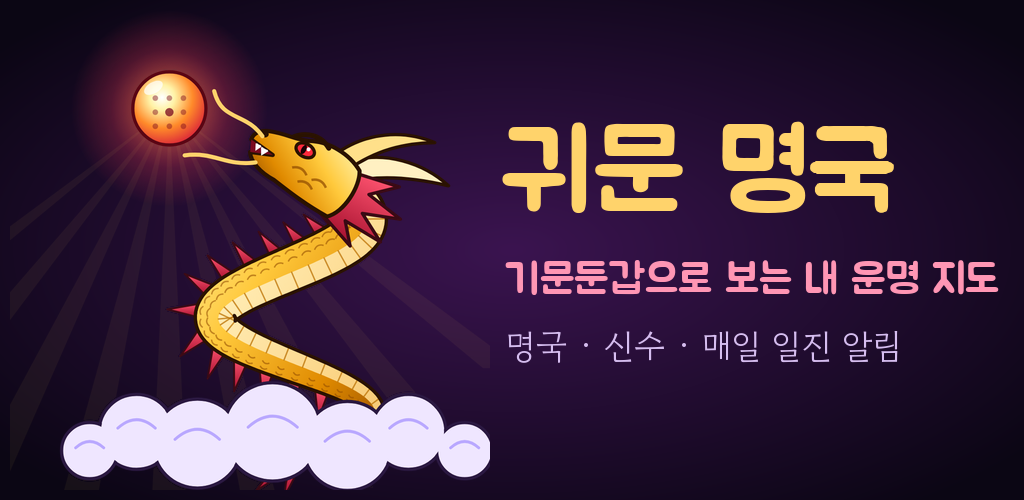
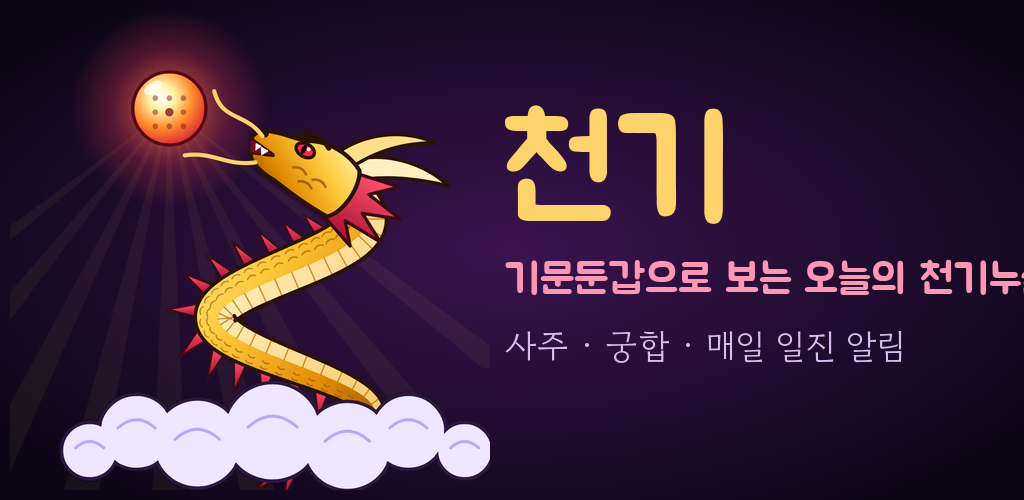
앱 이름을 '천기'로 변경 (로고, 스플래시, 스토어 자료, 쇼츠, 처리방침)
Claude-Session: https://claude.ai/code/session_0119NABojqjSjjtLjcbGgRiW

diff --git a/www/index.html b/www/index.html
@@ -6,7 +6,7 @@
 <meta name="theme-color" content="#ff8fb3">
 <link rel="preconnect" href="https://fonts.googleapis.com"><link rel="preconnect" href="https://fonts.gstatic.com" crossorigin>
 <link href="https://fonts.googleapis.com/css2?family=Jua&family=Gowun+Dodum&family=Noto+Serif+KR:wght@400;700&display=swap" rel="stylesheet">
-<title>귀문 명국</title>
+<title>천기 – 오늘의 천기누설</title>
 <style>
 :root{--bg:#fff7f1;--bg2:#fdeef4;--card:#ffffff;--ink:#3a2e4d;--mute:#9a8fae;--line:#f0e3ee;--pink:#ff8fb3;--pink2:#ffd3e2;--lav:#b9a8ff;--lav2:#ece6ff;--mint:#7fdcc0;--mint2:#dcf7ee;--sky:#8cc8ff;--sky2:#e2f1ff;--yel:#ffd66b;--yel2:#fff3cc;--red:#ff6b9a;--blue:#6a6cf6;--green:#e6f9ef;--greenS:#b7efd2;--yellow:#fff0a8;--purple:#9b7bff;--brown:#e0884f;--shadow:0 6px 18px rgba(186,140,190,.18)}
 @media(prefers-color-scheme:dark){:root{--bg:#1d1726;--bg2:#251d31;--card:#2a2236;--ink:#f3ecff;--mute:#a99cc0;--line:#3b3150;--pink:#ff8fb3;--pink2:#4a2b3c;--lav:#b9a8ff;--lav2:#352c52;--mint:#7fdcc0;--mint2:#1f3b35;--sky:#8cc8ff;--sky2:#1f3049;--yel:#ffd66b;--yel2:#40371c;--red:#ff8fb3;--blue:#a9a6ff;--green:#203a30;--greenS:#2f5c47;--yellow:#5a4d18;--purple:#c4b0ff;--brown:#f0a571;--shadow:0 6px 18px rgba(0,0,0,.35)}}
@@ -424,7 +424,7 @@ body.hasnav main{padding-bottom:86px}
 <path d="M20,4 q10,-8 20,0 M34,14 q10,-8 20,0 M48,2 q10,-8 20,0" fill="none" stroke="#8f4a00" stroke-width="3" opacity=".7"/>
 </g>
 </g>
-</svg><div><h1>귀문 <b>명국</b></h1><p class="sub">생일만 넣으면 내 운명 지도가 짠! ✨</p></div></div>
+</svg><div><h1>천<b>기</b></h1><p class="sub">생일만 넣으면 오늘의 천기누설 🐉</p></div></div>
 
 <div class="card today" id="todayTop" style="display:none"></div>
 
@@ -9145,7 +9145,7 @@ body.hasnav main{padding-bottom:86px}
 
 </script>
 <script>
-/* 귀문 명국 종합 풀이 (규칙 기반, 문장은 자체 작성)
+/* 천기 종합 풀이 (규칙 기반, 문장은 자체 작성)
  * 입력: engine.calc() 결과 r, sex('M'|'F'), age(세는나이)
  * 홍국수는 지지로 읽어요: 1子 2巳 3寅 4酉 5辰戌 6亥 7午 8卯 9申 10丑未
  */
@@ -9789,7 +9789,7 @@ function renderType(r){
   h+='<h4>일하는 스타일</h4><p>'+t.work+'</p>';
   h+='<h4>잘 맞는 사람</h4><p>'+t.match.map(c=>GM_TYPES[c]?GM_TYPES[c][0]+' '+GM_TYPES[c][1]+' '+GM_TYPES[c][2]:c).join(', ')+'과 서로 부족한 점을 채워 줘요. '+t.matchEl+'</p>';
   h+='<h4>한마디 조언</h4><p>'+t.advice+'</p>';
-  h+='<p class="note">심리 검사 결과가 아니라, '+t.whyEl+'의 분포와 십신(비겁·식상·재성·관성·인성)을 네 가지 성향으로 바꿔 풀어 본 귀문 명국만의 기질 유형이에요. 참고로 비슷한 성격 유형 코드는 '+t.code+'예요.</p>';
+  h+='<p class="note">심리 검사 결과가 아니라, '+t.whyEl+'의 분포와 십신(비겁·식상·재성·관성·인성)을 네 가지 성향으로 바꿔 풀어 본 천기만의 기질 유형이에요. 참고로 비슷한 성격 유형 코드는 '+t.code+'예요.</p>';
   $('typecard').innerHTML=h;
   const F=Saju4.fourPillars(r.pillars);
   let f='<h2>🏛 4주 풀이</h2><span class="badge">년주 · 월주 · 일주 · 시주</span>';
@@ -9875,7 +9875,7 @@ function buildNotifications(al,days){
 async function alSchedule(al){
   if(!LN){return '휴대폰에 앱으로 설치하면 이 설정대로 매일 알림이 와요. (지금 화면은 웹 미리보기라 알림이 오지 않아요.)';}
   let perm=await LN.checkPermissions();if(perm.display!=='granted')perm=await LN.requestPermissions();
-  if(perm.display!=='granted')return '알림 권한이 꺼져 있어요. 휴대폰 설정 → 앱 → 귀문 명국 → 알림을 켜 주세요.';
+  if(perm.display!=='granted')return '알림 권한이 꺼져 있어요. 휴대폰 설정 → 앱 → 천기 → 알림을 켜 주세요.';
   const pend=await LN.getPending();if(pend.notifications&&pend.notifications.length)await LN.cancel({notifications:pend.notifications.map(n=>({id:n.id}))});
   if(!al||!al.on)return '알림을 껐어요.';
   const list=buildNotifications(al,60);await LN.schedule({notifications:list});

diff --git a/assets/build_icons.py b/assets/build_icons.py
@@ -31,8 +31,8 @@ full = os.path.join(TMP, 'fg.png'); render(dragon.build(False, 1.0), full, 1024,
 fg = Image.open(full).convert('RGBA')
 for name in ['splash.png', 'splash-dark.png']:
     sp = darkbg(2732, 2732); sp.alpha_composite(fg.resize((1150, 1150), Image.LANCZOS), ((2732 - 1150) // 2, (2732 - 1150) // 2 - 180))
-    d = ImageDraw.Draw(sp); d.text((1366, 1886), '귀문 명국', font=J(170), fill=(255, 211, 107), anchor='mm')
-    d.text((1366, 2046), '기문둔갑으로 보는 내 운명 지도', font=J(70), fill=(214, 190, 240), anchor='mm')
+    d = ImageDraw.Draw(sp); d.text((1366, 1886), '천기', font=J(230), fill=(255, 211, 107), anchor='mm')
+    d.text((1366, 2066), '오늘의 천기누설', font=J(70), fill=(214, 190, 240), anchor='mm')
     sp.convert('RGB').save(os.path.join(HERE, name), optimize=True)
 ic = Image.open(os.path.join(HERE, 'icon-only.png')).convert('RGB'); ic.save(os.path.join(HERE, 'icon-only.png'), optimize=True)
 Image.open(os.path.join(HERE, 'icon-background.png')).convert('RGB').save(os.path.join(HERE, 'icon-background.png'), optimize=True)
@@ -40,9 +40,9 @@ ic.resize((512, 512), Image.LANCZOS).save(os.path.join(ST, 'icon_512.png'))
 b = ic.resize((600, 600), Image.LANCZOS).convert('RGBA'); m = Image.new('L', (600, 600), 0); ImageDraw.Draw(m).ellipse([0, 0, 599, 599], fill=255); b.putalpha(m)
 b.save(os.path.join(PR, 'dragon_badge.png'))
 g = darkbg(1024, 500); g.alpha_composite(fg.resize((480, 480), Image.LANCZOS), (10, 10)); d = ImageDraw.Draw(g)
-d.text((500, 175), '귀문 명국', font=J(112), fill=(255, 211, 107), anchor='lm')
-d.text((505, 280), '기문둔갑으로 보는 내 운명 지도', font=J(42), fill=(255, 150, 180), anchor='lm')
-d.text((505, 345), '명국 · 신수 · 매일 일진 알림', font=G(34), fill=(214, 190, 240), anchor='lm')
+d.text((500, 175), '천기', font=J(140), fill=(255, 211, 107), anchor='lm')
+d.text((505, 280), '기문둔갑으로 보는 오늘의 천기누설', font=J(42), fill=(255, 150, 180), anchor='lm')
+d.text((505, 345), '사주 · 궁합 · 매일 일진 알림', font=G(34), fill=(214, 190, 240), anchor='lm')
 g.convert('RGB').save(os.path.join(ST, 'feature_graphic.png'))
 # 앱 머리 로고 (index.html 안의 svg.logo 바꾸기)
 p = os.path.join(ROOT, 'www', 'index.html'); s = open(p, encoding='utf-8').read()

diff --git a/promo/make_video.py b/promo/make_video.py
@@ -34,7 +34,7 @@ cfg_path = os.path.join(HERE, "config.json")
 if os.path.exists(cfg_path):
     with open(cfg_path, encoding="utf-8") as f:
         CFG = json.load(f)
-APP_NAME = CFG.get("app_name", "귀문 명국")
+APP_NAME = CFG.get("app_name", "천기")
 
 
 # ── 글꼴 ──
@@ -402,7 +402,7 @@ class Video:
             paste(im, self.mascot_s, 110, yy + 30, a2)
             d.text((300, yy + 70), "내 생일로 보는 진짜 일진은?", font=jua(48), fill=INK, anchor="lm")
             d.text((300, yy + 150), f"{APP_NAME} 앱에서", font=jua(64), fill=PINK, anchor="lm")
-            d.text((300, yy + 222), "명국 · 신수 · 매일 아침 일진 알림", font=gowun(34), fill=MUTE, anchor="lm")
+            d.text((300, yy + 222), "오늘의 천기누설 · 매일 아침 일진 알림", font=gowun(34), fill=MUTE, anchor="lm")
             btn_w = 700
             d.rounded_rectangle([W // 2 - btn_w // 2, yy + 280, W // 2 + btn_w // 2, yy + 365], 42, fill=PINK)
             d.text((W // 2 + 20, yy + 323), "프로필 링크에서 받기", font=jua(48), fill=WHITE, anchor="mm")
@@ -482,7 +482,7 @@ def texts(data):
     else:
         lines.append("👉 프로필 링크에서 받아 보세요")
     lines += ["※ 재미로 보는 운세예요", "",
-              "#오늘의운세 #띠별운세 #운세 #사주 #일진 #" + best["name"] + " #귀문명국 #shorts"]
+              "#오늘의운세 #띠별운세 #운세 #사주 #일진 #" + best["name"] + " #천기 #천기누설 #shorts"]
     return title, "\n".join(lines)
 
 

diff --git a/assets/dragon.py b/assets/dragon.py
@@ -1,4 +1,4 @@
-"""귀문 명국 용 엠블럼 SVG 만들기
+"""천기 용 엠블럼 SVG 만들기
 
 여의주를 감싸고 도는 금빛 용. 몸통·비늘·등지느러미·머리를 계산으로 그려요.
 사용: python dragon.py  → dragon.svg (배경 포함), dragon_fg.svg (배경 없음)

diff --git a/store/privacy.md b/store/privacy.md
@@ -1,8 +1,8 @@
-# 귀문 명국 개인정보처리방침
+# 천기 개인정보처리방침
 
 시행일: 2026년 11월 9일
 
-「귀문 명국」(이하 "앱")은 이용자의 개인정보를 소중히 여기며, 아래와 같이 처리합니다.
+「천기」(이하 "앱")은 이용자의 개인정보를 소중히 여기며, 아래와 같이 처리합니다.
 
 ## 1. 앱이 다루는 정보
 앱은 운세 계산을 위해 이용자가 직접 입력한 다음 정보를 사용합니다.
